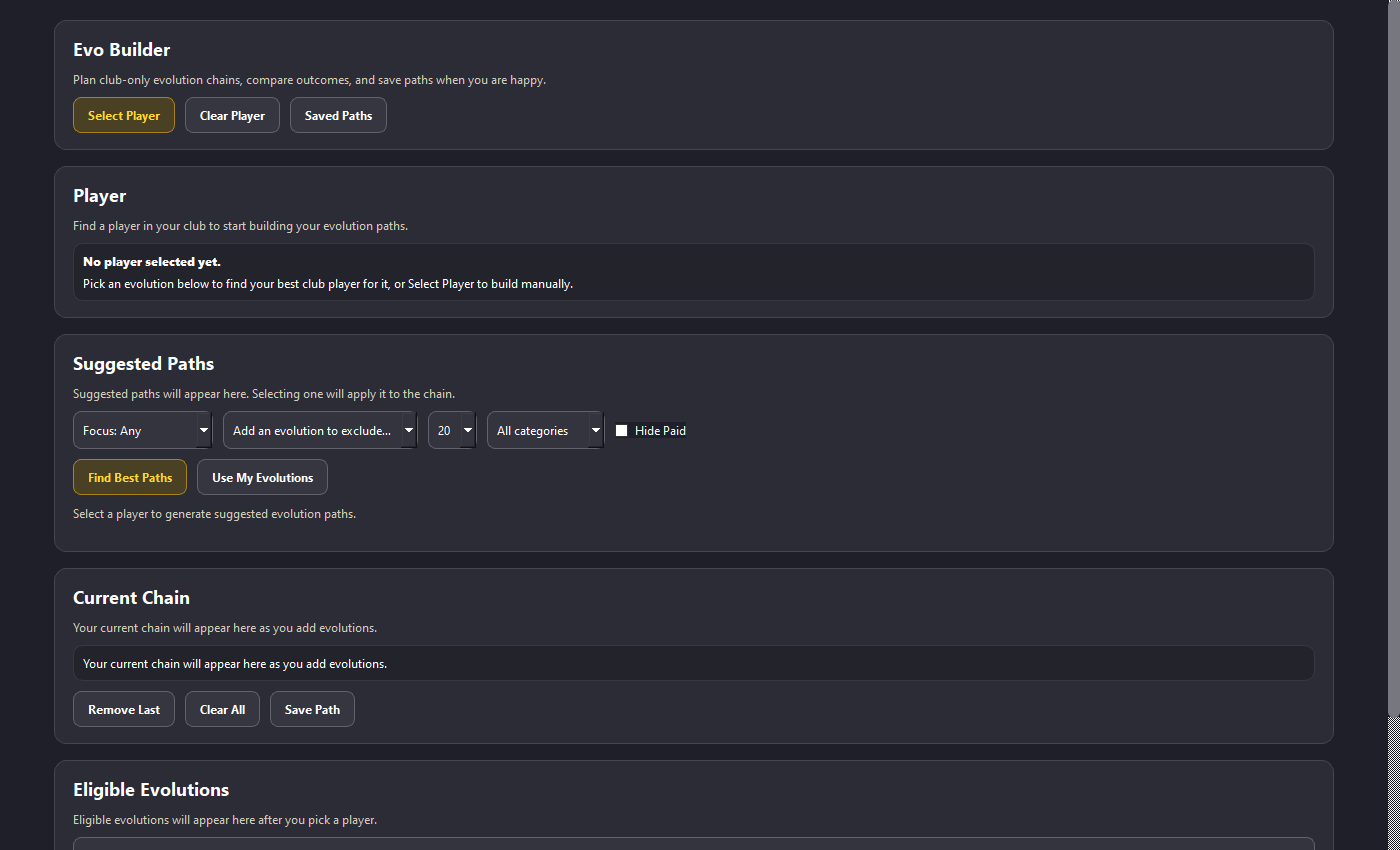
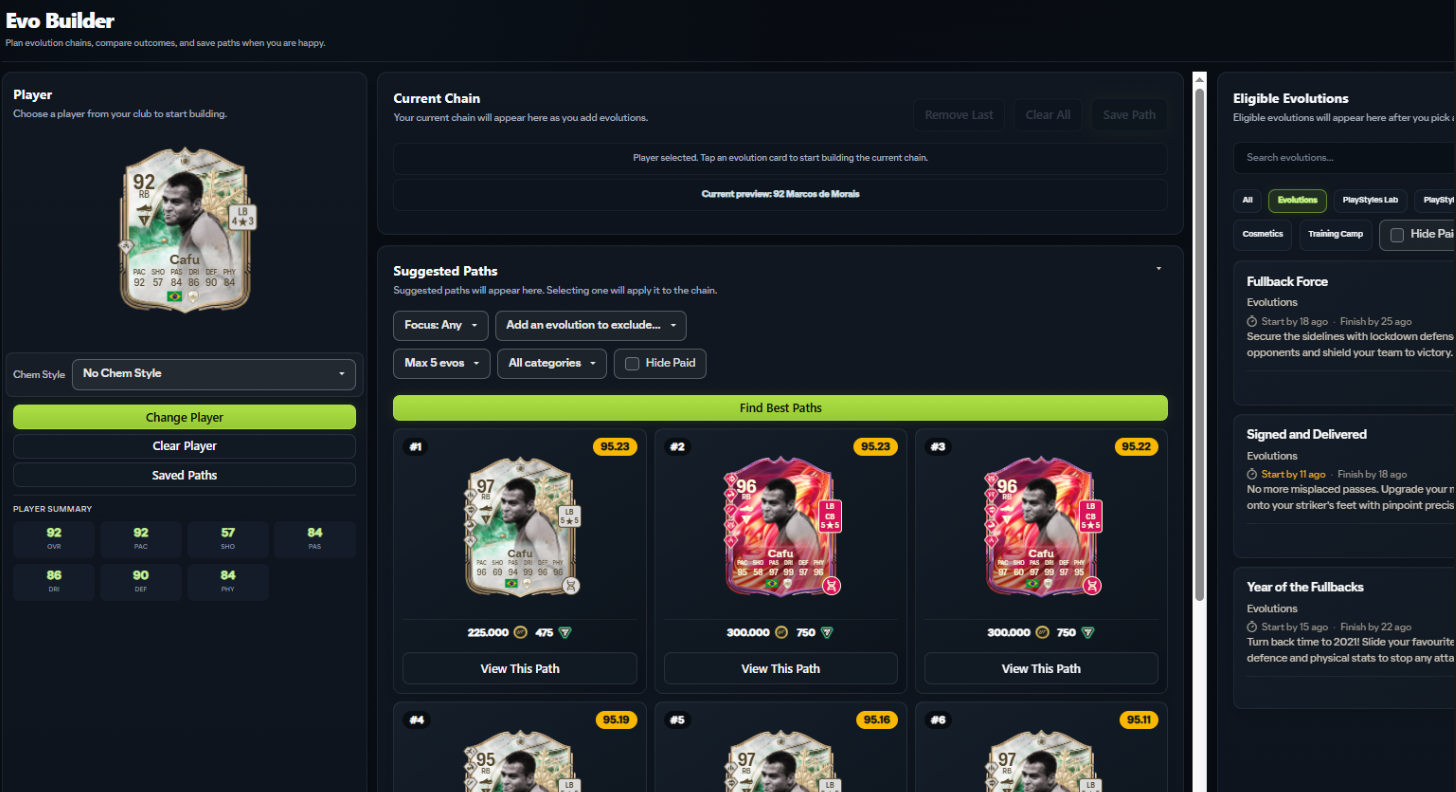
Update EVO Builder marketing screenshot
Replaces the outdated, empty-state EVO Builder capture on the
homepage's "Two focused workflows" section with a current, populated
one (player selected, ranked evolution paths, eligible evolutions).
Updates the image's width/height metadata in features.tsx to match
the new file's real dimensions (1456x792) so Next/CSS reserve the
correct aspect ratio - the SBC Solver screenshot and every other
image on the site are untouched.

diff --git a/src/components/features.tsx b/src/components/features.tsx
@@ -6,7 +6,7 @@ import { useI18n } from "./i18n-provider";
 
 const captures = [
   { src: "/screenshots/sbc-solver.png", width: 1290, height: 756 },
-  { src: "/screenshots/evolutions.png", width: 1400, height: 850 },
+  { src: "/screenshots/evolutions.png", width: 1456, height: 792 },
 ] as const;
 
 export function Features() {
